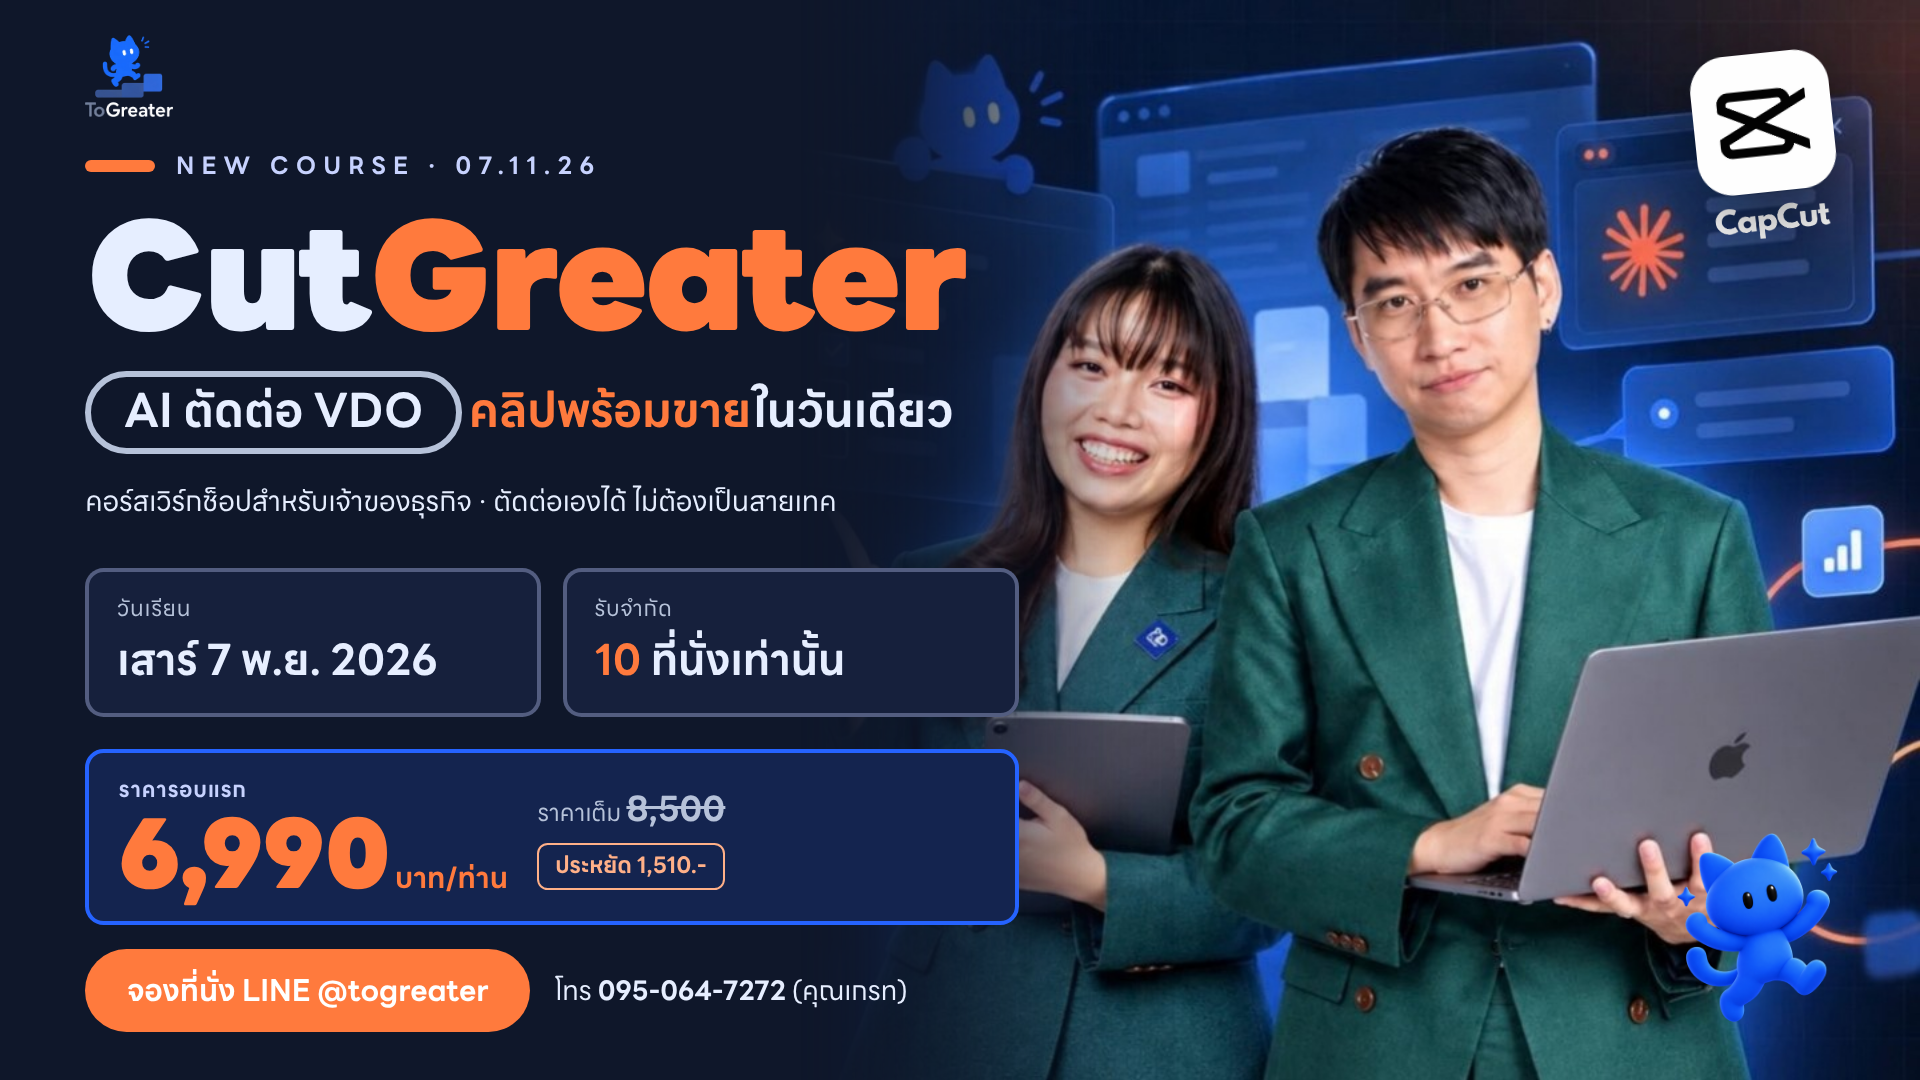
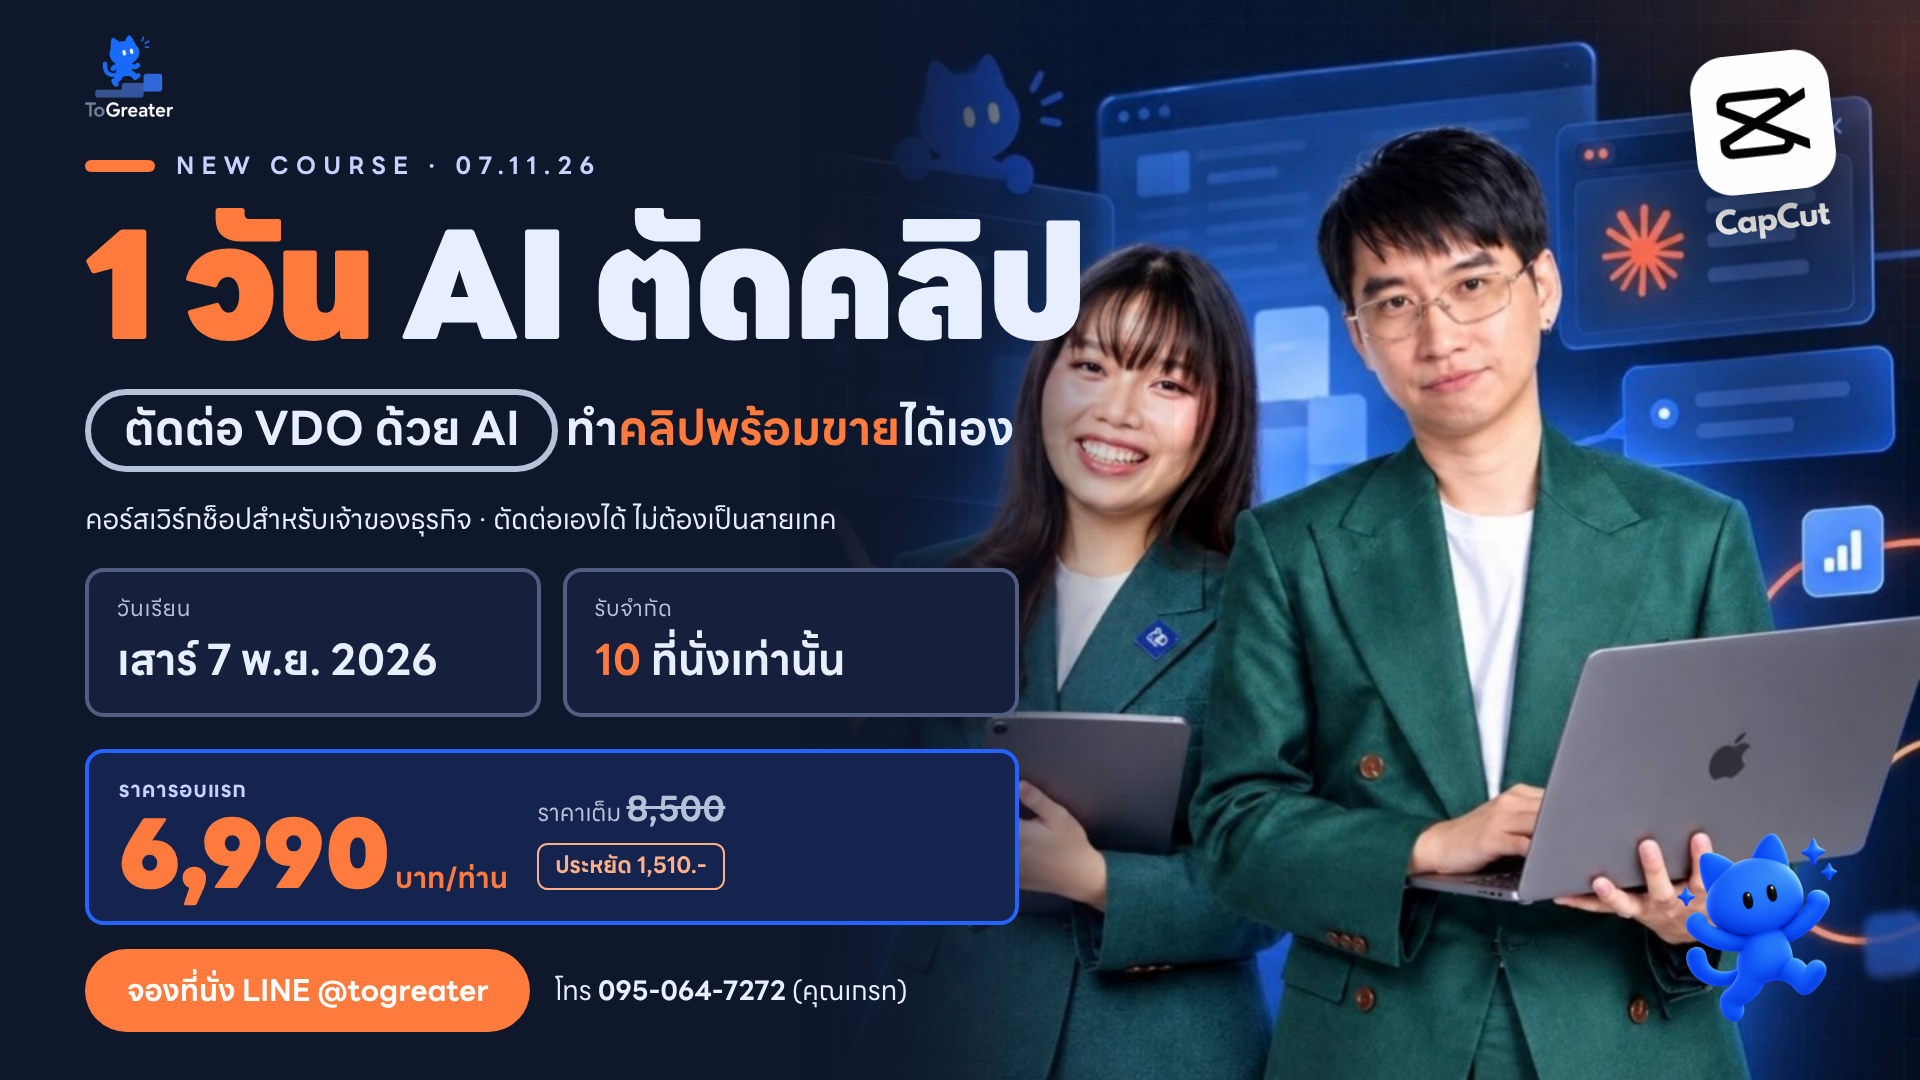
Rename course title to 1 วัน AI ตัดคลิป
Claude-Session: https://claude.ai/code/session_01WvLy75CLDcueEYPMopSorx

Changed region(s): [[0.0312, 0.1833, 0.5625, 0.4889]]

diff --git a/banners/ai-video-course/index.html b/banners/ai-video-course/index.html
@@ -3,7 +3,7 @@
 <head>
 <meta charset="utf-8">
 <meta name="viewport" content="width=device-width, initial-scale=1">
-<title>CutGreater Banners</title>
+<title>1 วัน AI ตัดคลิป</title>
 <style>
 @font-face{font-family:"LINE Seed Sans TH";src:url(assets/fonts/LINESeedSansTH_Rg.ttf);font-weight:400}
 @font-face{font-family:"LINE Seed Sans TH";src:url(assets/fonts/LINESeedSansTH_Bd.ttf);font-weight:700}
@@ -32,7 +32,7 @@ body{background:#060b18;font-family:"LINE Seed Sans TH",sans-serif;color:var(--t
 .logo{display:flex}.logo img{height:100%}
 .eyebrow{display:flex;align-items:center;gap:16px;font-size:18px;font-weight:700;letter-spacing:.3em;text-transform:uppercase;color:var(--tg-blue-soft)}
 .eyebrow::before{content:"";width:52px;height:9px;border-radius:9px;background:var(--tg-orange)}
-.title{font-weight:900;line-height:1;letter-spacing:-.02em;white-space:nowrap}
+.title{font-weight:900;line-height:1.12;letter-spacing:-.02em;white-space:nowrap}
 .sub{font-weight:700;line-height:1.3;white-space:nowrap}
 /* Title frame (CI 3.6): กรอบ outline ทรงแคปซูล */
 .frame{display:inline-block;border:5px solid var(--tg-text-muted);border-radius:999px;padding:.08em .7em .14em;margin:0 .15em .18em 0}
@@ -121,10 +121,10 @@ body{background:#060b18;font-family:"LINE Seed Sans TH",sans-serif;color:var(--t
     <div class="desc" style="font-size:25px" data-c="desc2"></div>
   </div>
   <div class="stat" style="left:64px;top:545px;width:400px" data-c="date"></div>
-  <div class="stat" style="left:64px;top:658px;width:400px" data-c="seats"></div>
-  <div class="price" style="left:64px;top:790px;width:952px" data-c="price"></div>
+  <div class="stat" style="left:64px;top:672px;width:400px" data-c="seats"></div>
+  <div class="price" style="left:64px;top:806px;width:952px" data-c="price"></div>
   <div class="cta between" style="left:64px;right:64px;top:975px" data-c="cta"></div>
-  <div class="tool" style="right:56px;top:140px;width:112px" data-c="capcut"></div>
+  <div class="tool" style="right:56px;top:262px;width:112px" data-c="capcut"></div>
 </section>
 
 <section class="banner s45" id="a45">
@@ -132,7 +132,7 @@ body{background:#060b18;font-family:"LINE Seed Sans TH",sans-serif;color:var(--t
   <div class="logo" style="left:64px;top:44px;height:68px" data-c="logo"></div>
   <div class="eyebrow" style="right:64px;top:74px" data-c="eyebrow"></div>
   <div class="stack" style="left:64px;top:150px">
-    <div class="title" style="font-size:150px" data-c="title"></div>
+    <div class="title" style="font-size:140px" data-c="title"></div>
     <div class="sub" style="font-size:54px" data-c="sub2"></div>
     <div class="desc" style="font-size:28px" data-c="desc2"></div>
   </div>
@@ -183,7 +183,7 @@ body{background:#060b18;font-family:"LINE Seed Sans TH",sans-serif;color:var(--t
   <div class="logo center" style="top:34px;height:66px" data-c="logo"></div>
   <div class="eyebrow center" style="top:120px" data-c="eyebrow"></div>
   <div class="stack center" style="top:158px;gap:18px">
-    <div class="title" style="font-size:150px" data-c="title"></div>
+    <div class="title" style="font-size:140px" data-c="title"></div>
     <div class="sub" style="font-size:46px" data-c="sub1"></div>
   </div>
   <div class="badge seat-b" style="left:44px;top:650px;width:232px;height:232px;font-size:18px" data-c="seatbadge"></div>
@@ -231,7 +231,7 @@ body{background:#060b18;font-family:"LINE Seed Sans TH",sans-serif;color:var(--t
   <div class="logo" style="left:64px;top:40px;height:66px" data-c="logo"></div>
   <div class="eyebrow" style="right:64px;top:68px" data-c="eyebrow"></div>
   <div class="stack" style="left:64px;top:146px">
-    <div class="title" style="font-size:148px" data-c="title"></div>
+    <div class="title" style="font-size:140px" data-c="title"></div>
     <div class="sub" style="font-size:52px" data-c="sub2"></div>
     <div class="desc" style="font-size:27px" data-c="desc2"></div>
   </div>
@@ -246,7 +246,7 @@ body{background:#060b18;font-family:"LINE Seed Sans TH",sans-serif;color:var(--t
   <div class="logo" style="left:790px;top:26px;height:56px" data-c="logo"></div>
   <div class="eyebrow" style="right:64px;top:46px" data-c="eyebrow"></div>
   <div class="stack" style="left:790px;top:100px;gap:14px">
-    <div class="title" style="font-size:98px" data-c="title"></div>
+    <div class="title" style="font-size:88px" data-c="title"></div>
     <div class="sub" style="font-size:36px" data-c="sub2"></div>
   </div>
   <div class="ticket" style="left:800px;top:350px;width:576px;font-size:20px" data-c="ticket"></div>
@@ -261,9 +261,9 @@ const T={
   capcut:()=>`<img class="ic" src="assets/capcut-icon.png" alt=""><img class="wm" src="assets/capcut-wordmark-white.png" alt="CapCut">`,
   logo:()=>`<img src="assets/logo-togreater.png" alt="ToGreater">`,
   eyebrow:()=>`New Course · 07.11.26`,
-  title:()=>`Cut<span class="hl">Greater</span>`,
-  sub1:()=>`<span class="frame">AI ตัดต่อ VDO</span><span class="hl">คลิปพร้อมขาย</span>ในวันเดียว`,
-  sub2:()=>`<span class="frame">AI ตัดต่อ VDO</span><br><span class="hl">คลิปพร้อมขาย</span>ในวันเดียว`,
+  title:()=>`<span class="hl">1 วัน</span> AI ตัดคลิป`,
+  sub1:()=>`<span class="frame">ตัดต่อ VDO ด้วย AI</span>ทำ<span class="hl">คลิปพร้อมขาย</span>ได้เอง`,
+  sub2:()=>`<span class="frame">ตัดต่อ VDO ด้วย AI</span><br>ทำ<span class="hl">คลิปพร้อมขาย</span>ได้เอง`,
   desc1:()=>`คอร์สเวิร์กช็อปสำหรับเจ้าของธุรกิจ · ตัดต่อเองได้ ไม่ต้องเป็นสายเทค`,
   desc2:()=>`คอร์สเวิร์กช็อปสำหรับเจ้าของธุรกิจ<br>ตัดต่อเองได้ ไม่ต้องเป็นสายเทค`,
   date:()=>`<small>วันเรียน</small><b>${DATE}</b>`,
@@ -275,7 +275,7 @@ const T={
   pricebadge:()=>`<small>ราคารอบแรก</small><b>${NOW}</b><span>บาท/ท่าน</span><s>ราคาเต็ม ${WAS}</s>`,
   bar:()=>`<div class="when"><small>วันเรียน</small><b>${DATE}</b><br><em>เวิร์กช็อป 1 วัน · ลงมือทำจริง</em></div>
            <div class="cta"><span class="btn">จองที่นั่ง LINE @togreater</span><span>โทร <b>095-064-7272</b> (คุณเกรท)</span></div>`,
-  ticket:()=>`<div class="t-top"><div class="t-label">ADMIT ONE · CUTGREATER WORKSHOP</div>
+  ticket:()=>`<div class="t-top"><div class="t-label">ADMIT ONE · AI VIDEO WORKSHOP</div>
                <div class="t-row"><div><small>วันเรียน</small><b>${DATE}</b></div>
                <div class="seats"><small>รับจำกัด</small><b><em>${SEATS}</em>ที่นั่ง</b></div></div></div>
              <div class="t-cut"></div>
